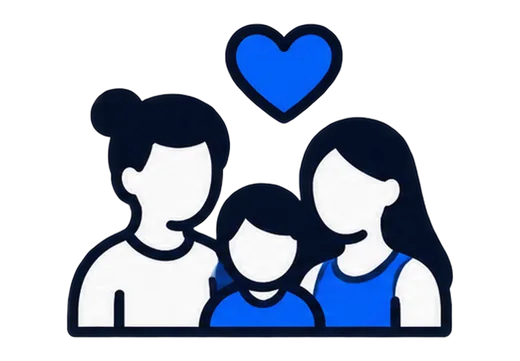
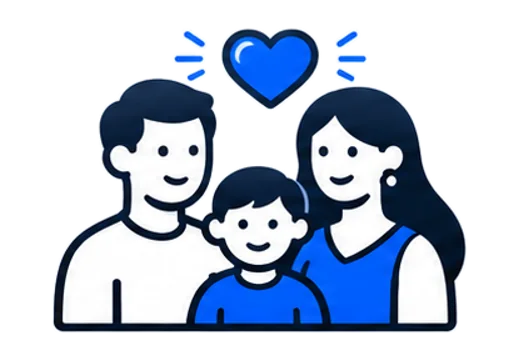
Legal areas: the new pictures, placed by name
The eight "Huquqiy yo'nalishlar" cards use the new pictures from
public/img/category, matched by name (Mehnat_huquqi, Oila_huquqi,
Kochmas_mulk, Avtoavariya_YTH, Biznes_va_soliq, Meros, Jinoyat_ishlari,
Istemolchi_huquqlari); the old set is removed. The PNGs are 512px squares
with wide margins, so each page copy is a 520x361 WebP with the drawing
cropped and fitted to the card's picture slot at the size the old set had
(~85% of the height), ~20 KB each.

Changed region(s): [[0.0923, 0.0609, 0.9231, 0.9446]]

diff --git a/lib/legalAreas.ts b/lib/legalAreas.ts
@@ -6,9 +6,11 @@ import { BriefcaseBusiness, Car, Gavel, HeartHandshake, House, Landmark, ScrollT
 // sellers carry free specialization slugs and services free category titles —
 // so an area is matched by the words its specializations, services and
 // categories use, in every script the catalog is written in.
-// `image`: a 520px WebP copy of the 760px PNG beside it in public/img/category
-// (the card shows it at ≤262px; the PNGs were ~200 KB each, ~1.75 MB for the
-// eight, and stayed blank for a long time on a slow line).
+// `image`: a 520x361 WebP made from the PNG of the same name beside it in
+// public/img/category — the drawing cropped and fitted to the card's picture
+// slot at the same size as the set before (the PNGs are 512px squares with
+// wide margins, which in the slot would read at half the size), and light
+// (~20 KB) for a slow line.
 export type LegalArea = {
   key: "labor" | "family" | "property" | "traffic" | "business" | "inheritance" | "criminal" | "consumer";
   Icon: ComponentType<{ className?: string }>;
@@ -21,10 +23,10 @@ export const LEGAL_AREAS: LegalArea[] = [
   { key: "family", Icon: HeartHandshake, image: "/img/category/Oila_huquqi.webp", terms: ["oila", "family", "nikoh", "aliment", "ajrash", "vasiylik", "семь", "оила", "никоҳ", "алимент", "развод"] },
   { key: "property", Icon: House, image: "/img/category/Kochmas_mulk.webp", terms: ["realestate", "real-estate", "ko'chmas", "kochmas", "ko‘chmas", "mulk", "ijara", "uy-joy", "lease", "недвиж", "кўчмас", "ижара", "аренд"] },
   { key: "traffic", Icon: Car, image: "/img/category/Avtoavariya_YTH.webp", terms: ["avto", "ytx", "yth", "traffic", "accident", "sug'urta", "sugurta", "дтп", "йтҳ", "авто", "страхов"] },
-  { key: "business", Icon: Landmark, image: "/img/category/Soliq_huquqi.webp", terms: ["biznes", "business", "soliq", "tax", "korxona", "korporativ", "corporate", "iqtisod", "economic", "налог", "бизнес", "корпоратив", "солиқ", "иқтисод"] },
-  { key: "inheritance", Icon: ScrollText, image: "/img/category/meros_huquqi.webp", terms: ["meros", "inherit", "vasiyat", "will", "наслед", "мерос", "васият", "inherited"] },
-  { key: "criminal", Icon: Gavel, image: "/img/category/Jinoyiy_huquq.webp", terms: ["jinoy", "criminal", "уголов", "жиноя", "himoya", "tergov", "defense"] },
-  { key: "consumer", Icon: ShoppingBag, image: "/img/category/istemolchi_huquqi.webp", terms: ["iste'molchi", "istemolchi", "iste‘molchi", "consumer", "потребит", "истеъмолчи", "tovar"] },
+  { key: "business", Icon: Landmark, image: "/img/category/Biznes_va_soliq.webp", terms: ["biznes", "business", "soliq", "tax", "korxona", "korporativ", "corporate", "iqtisod", "economic", "налог", "бизнес", "корпоратив", "солиқ", "иқтисод"] },
+  { key: "inheritance", Icon: ScrollText, image: "/img/category/Meros.webp", terms: ["meros", "inherit", "vasiyat", "will", "наслед", "мерос", "васият", "inherited"] },
+  { key: "criminal", Icon: Gavel, image: "/img/category/Jinoyat_ishlari.webp", terms: ["jinoy", "criminal", "уголов", "жиноя", "himoya", "tergov", "defense"] },
+  { key: "consumer", Icon: ShoppingBag, image: "/img/category/Istemolchi_huquqlari.webp", terms: ["iste'molchi", "istemolchi", "iste‘molchi", "consumer", "потребит", "истеъмолчи", "tovar"] },
 ];
 
 export const areaByKey = (key: string): LegalArea | undefined => LEGAL_AREAS.find((a) => a.key === key);
